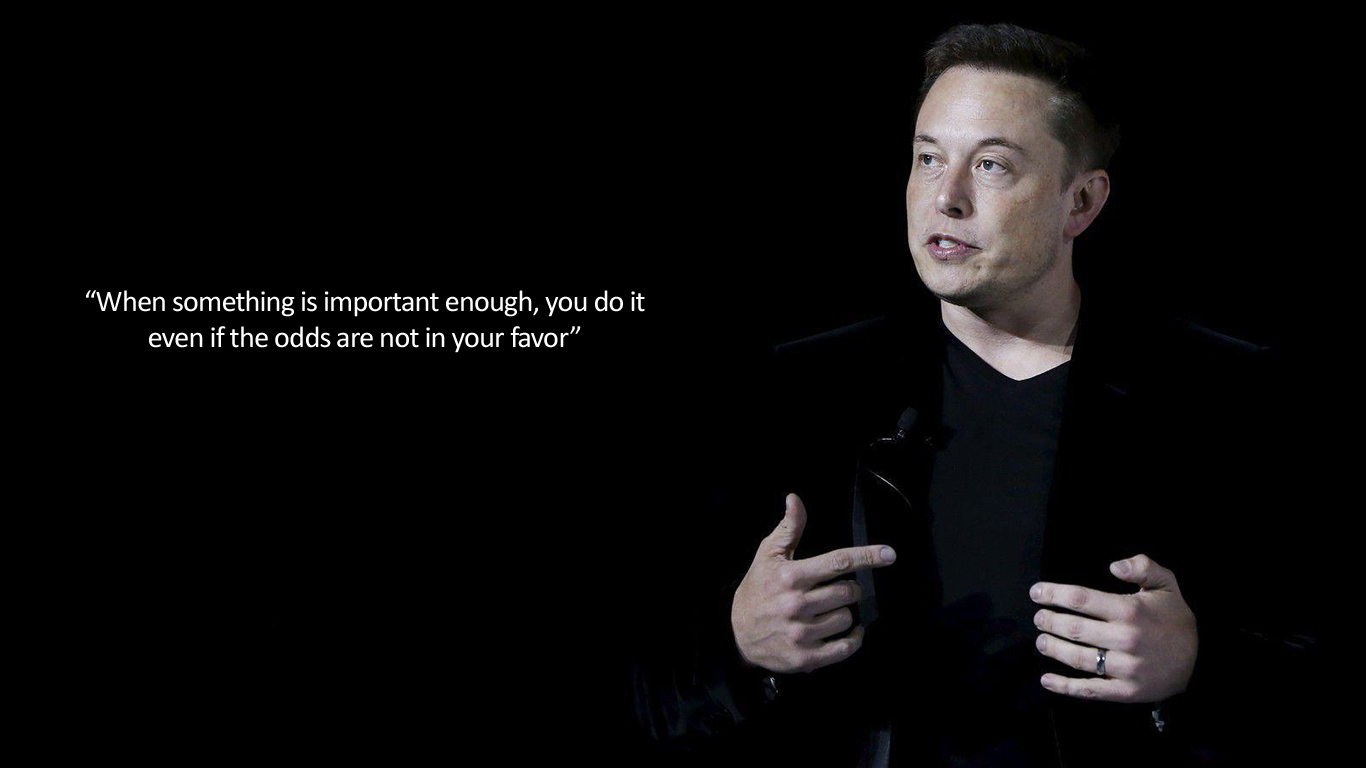
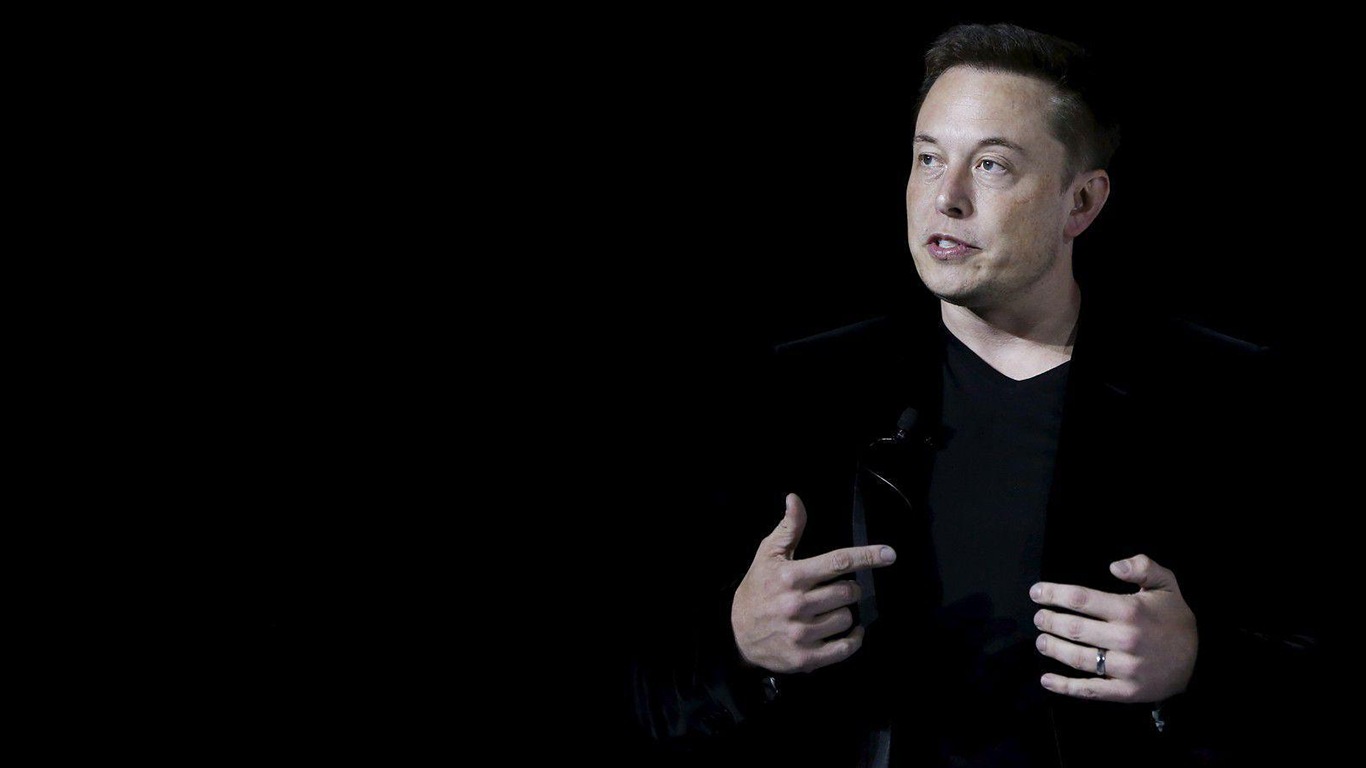
Added img-caption

Changed region(s): [[0.0615, 0.375, 0.4919, 0.4688]]

diff --git a/tribute-page/index.html b/tribute-page/index.html
@@ -16,7 +16,11 @@
         <!-- Header Element -->
         <header>
             <!-- I want to see... id="title" -->
-            <h1 id="title">Elon Musk</h1> 
+            <h1 id="title">Elon Musk</h1>
+            <span id="img-caption">
+                "When something is important enough, you do it 
+                <br>even if the odds are not in your favor."
+            </span> 
             <!-- I want to see... id="img-div" -->
             <div id = "img-div">
                 <img src="images/Header.png">
@@ -56,7 +60,7 @@
 
             <!-- List of Achievements -->
             
-            <h2>Some of Elon's Most Noteable Achievements</h2>
+            <h2>Achievements</h2>
             <ol>
                 <li>Founded <a target="_blank" href="https://www.spacex.com/">SpaceX</a>, the company who developed the technology for reusable rockets.</li>
                 <li>Founded <a target="_blank" href="https://www.tesla.com/">Tesla</a>, a company leading in production of fully electric vehicles.</li>
@@ -64,7 +68,7 @@
                 <li>Developed <a target="_blank" href="https://www.starlink.com/">Starlink</a> which is a satellite constellation which will be operated by SpaceX and aims to provide internet access to most parts of the Earth.</li>
                 <li>Founded <a target="_blank" href="https://www.starlink.com/">The Boring Company</a>,  an infrastructure and tunnel construction company that aims to dig tunnels efficiently to facilitate an underground transportation network.</li>
             </ol>
-                       
+                      
             
             <!-- Biography REPLACE CONTENT -->
             <h2>Biography</h2>

diff --git a/tribute-page/homework.css b/tribute-page/homework.css
@@ -3,7 +3,7 @@ body{
     background-color: black;
     color: lightgray;
     font-size: 30px;
-    line-height: 30px;    
+    line-height: 40px;    
 }
 
 header{
@@ -16,10 +16,18 @@ header{
 
 }
 
+
 header h1{
     font-size: 80px;
     color: lightgray;
     
+}
+
+#img-caption{
+    margin: 0;
+    position: absolute;
+    left: 15%;
+    top: 450px;
 }
 
 h1, h2{
@@ -36,6 +44,7 @@ main{
     text-align: left;
     margin: 0 auto;
     padding: 50px;
+    background-color: black;
     
 }
 
@@ -146,7 +155,7 @@ footer p{
     height: auto;
     width: 150px;
     background: transparent;
-    border: 3px solid white;
+    border: 2px solid white;
     border-radius: 5px;
     text-align: center;
     position: absolute;
